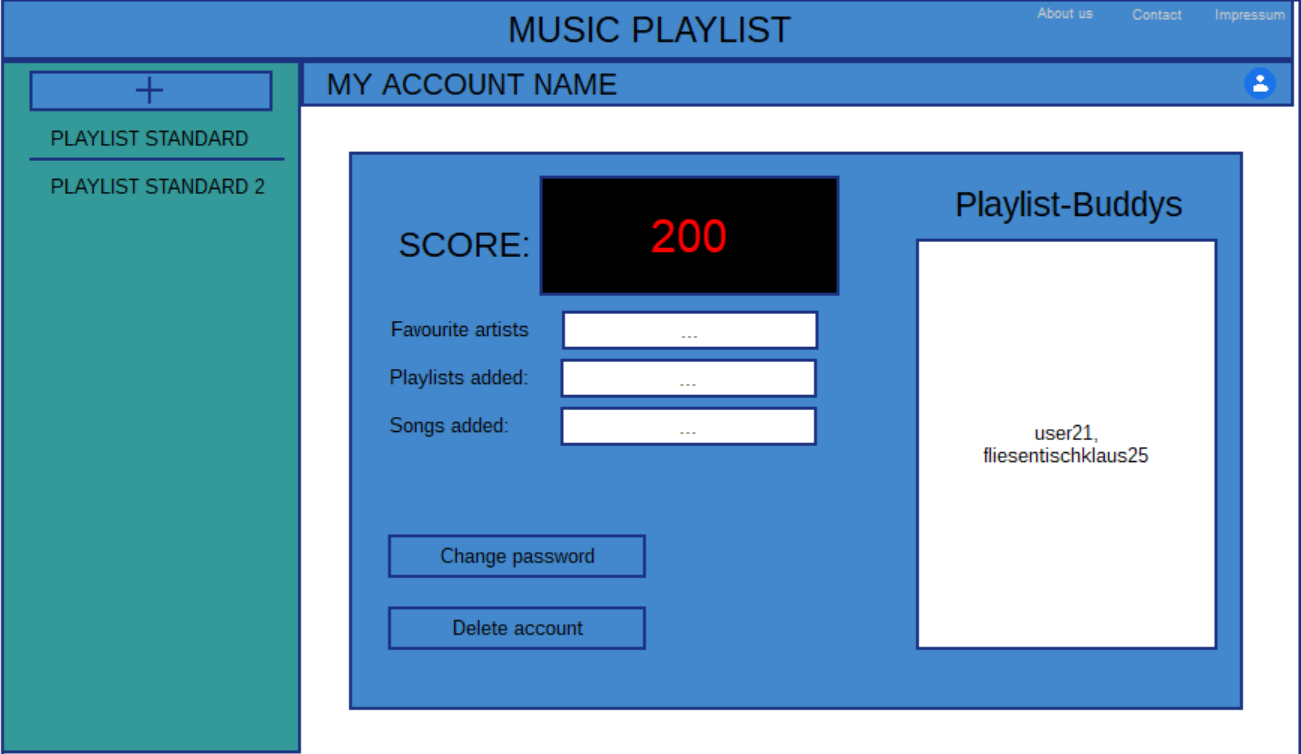
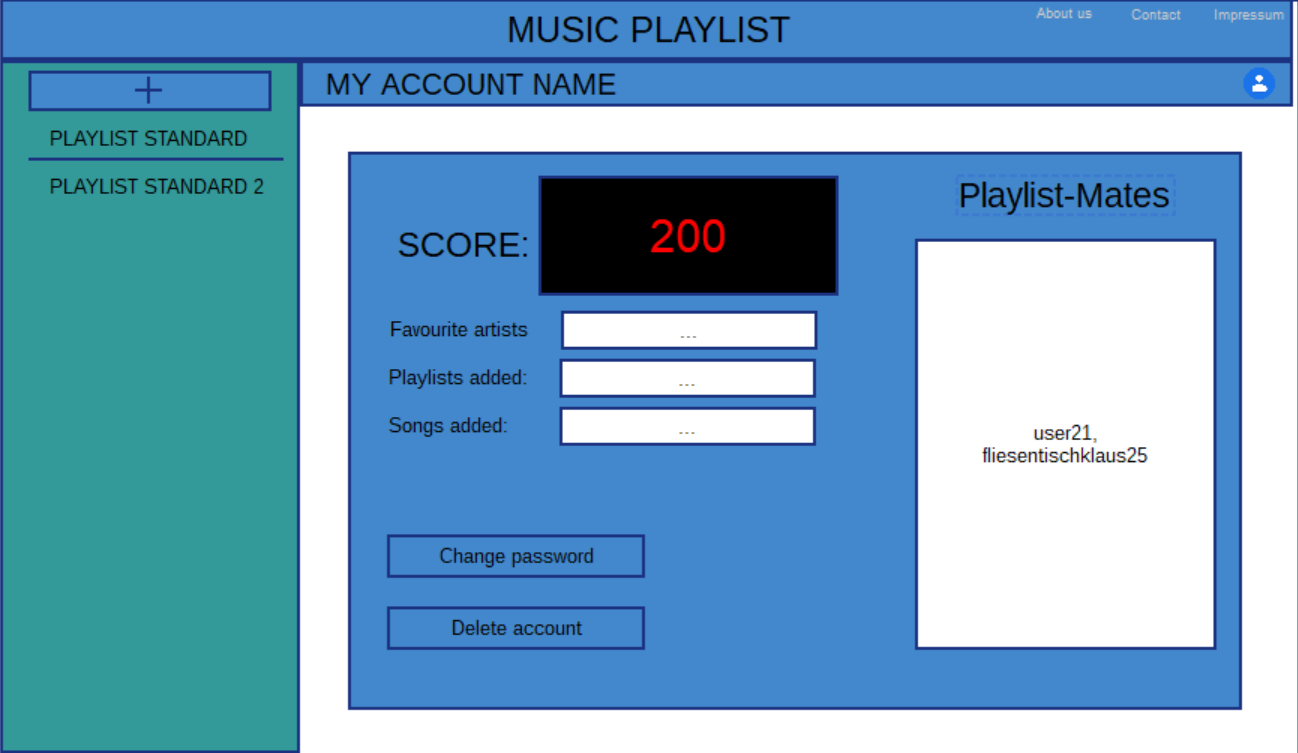
changed Buddy to Mate in Wireframes

diff --git a/README.md b/README.md
@@ -51,7 +51,9 @@ enthaltenen Songs
 
 ### Page Main
 ![Bild MainPage](./Wireframes/Page0_MainPage.png "MainPage")
-Sobald die Root-Page aufgerufen wird, 
+Sobald die Main-Page aufgerufen wird, wird der Header erzeugt mit der App Überschrift
+"MUSIC PLAYLIST". Darin befinden sich in der oberen rechten Ecke die Links "About Us", 
+""
 
 ### Page PlaylistSongs
 ![Bild PlaylistSongs](./Wireframes/Page1_PlaylistSongs.png "PlaylistSongs") 
